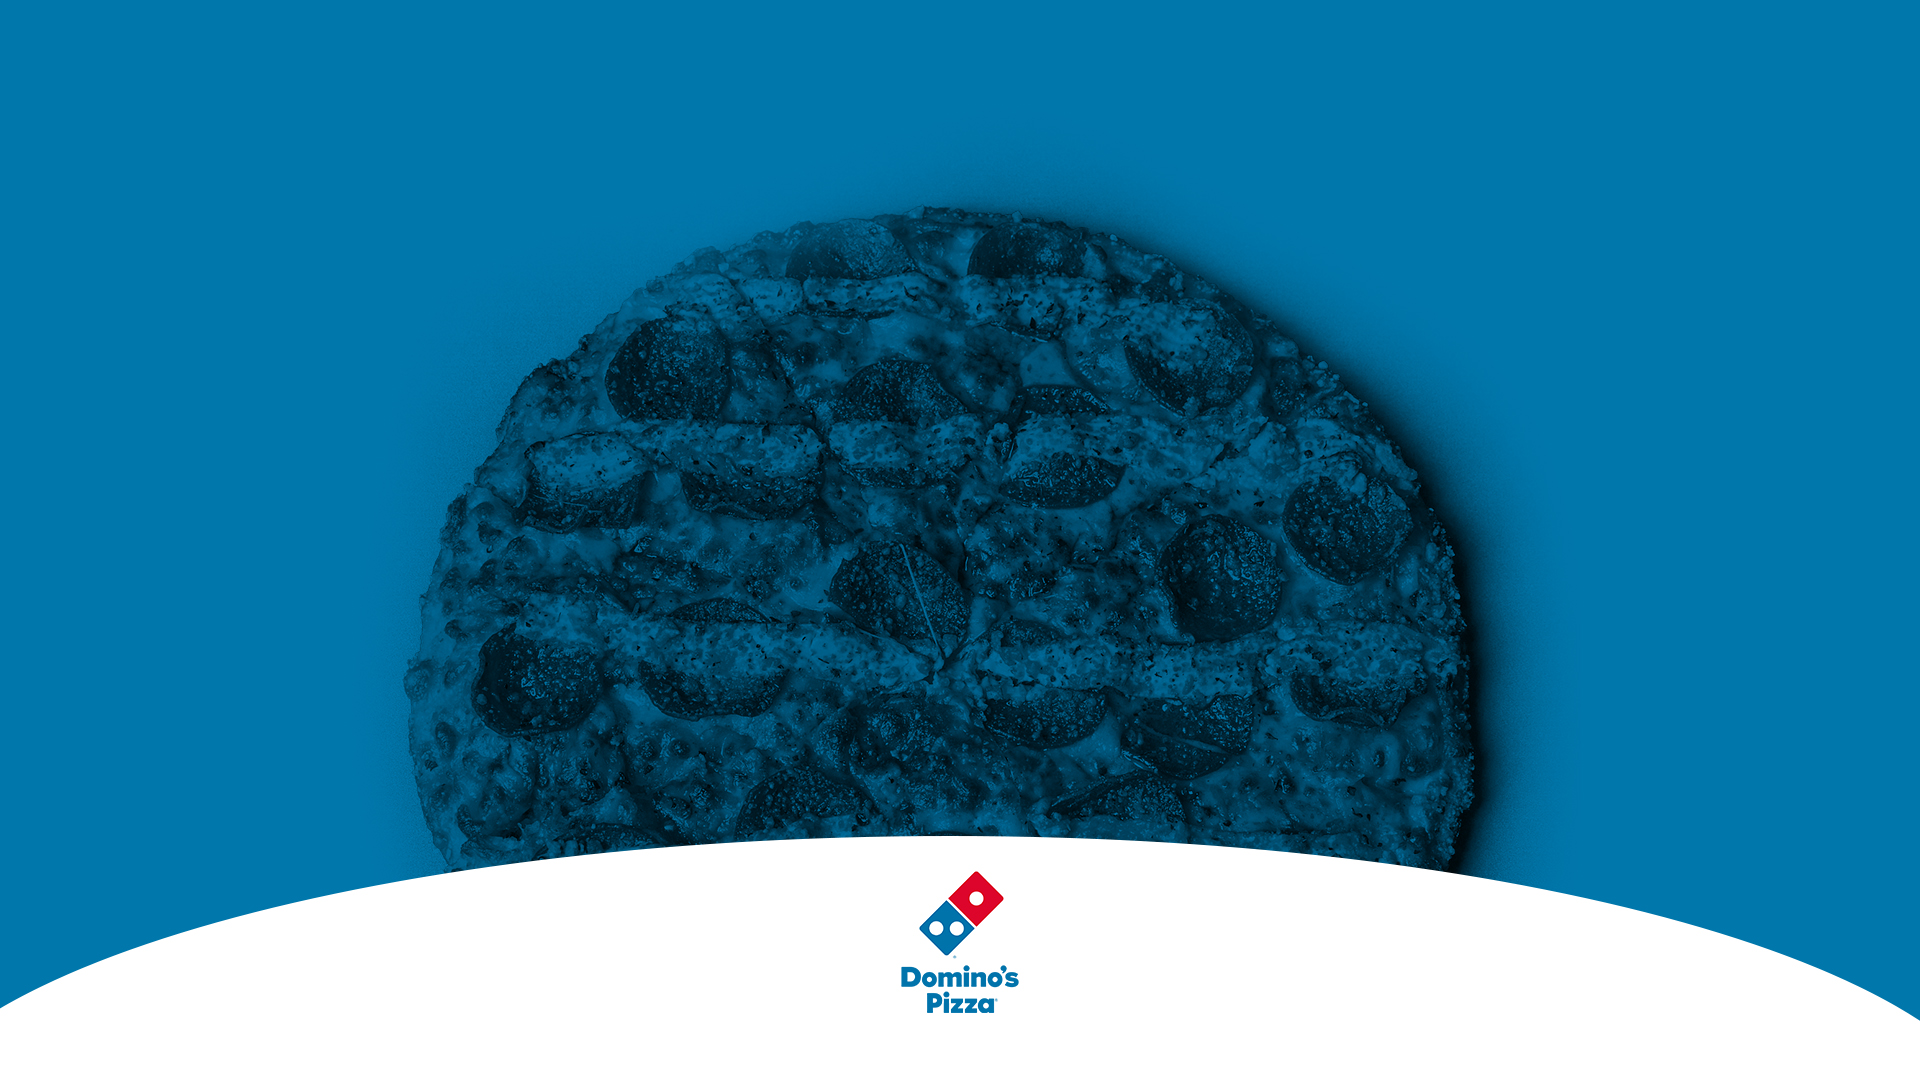
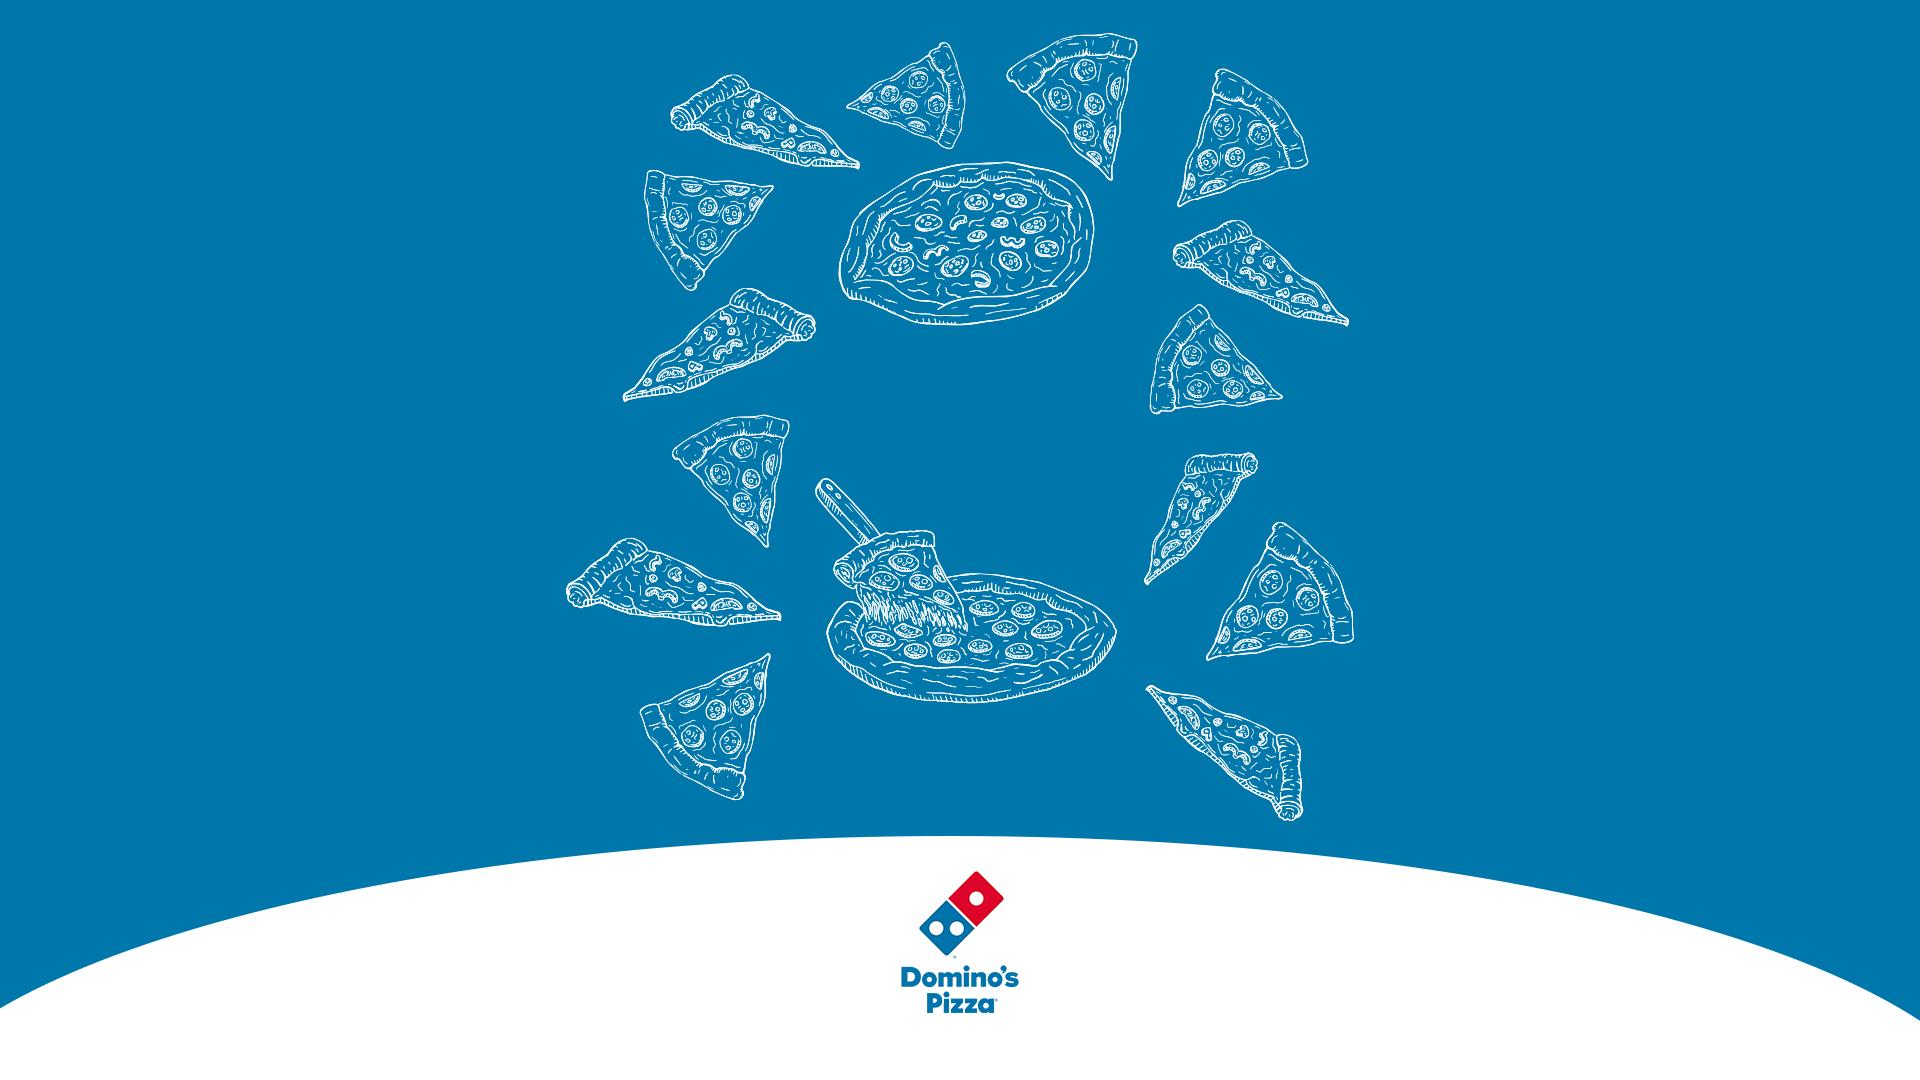
bg-image changed. menu link removed

diff --git a/data.js b/data.js
@@ -3,10 +3,10 @@ const links = [
        name:"ligue e peça agora!",
        link:'tel:+557135992000',
      },
-     {
-       name:"cardápio aqui",
-       link:"https://drive.google.com/drive/folders/1UCyd9O0P6C_yobzsWz-e2D40xx-rcl8Y"
-     }, 
+    //  {
+    //    name:"cardápio aqui",
+    //    link:"https://drive.google.com/drive/folders/1UCyd9O0P6C_yobzsWz-e2D40xx-rcl8Y"
+    //  }, 
      {
        name:"pedidos ifood",
        link:"https://www.ifood.com.br/delivery/salvador-ba/dominos-pizza---brotas-brotas/"

diff --git a/index.html b/index.html
@@ -20,7 +20,6 @@
                 <div class="presentation">
                     <h1>Bem vindo(a) à 
                         </br>
-                        
                     <span>@dominosbrotas</span>
                     </h1>
                 </div>
@@ -41,7 +40,7 @@ const mappedUsers = links.map((link, index) => {
             <span class="text" >${link.name}</span>
             </div>
           </a>`
-        });
+        }).join('');
 
 usersContainer.innerHTML = mappedUsers
 

diff --git a/styles.css b/styles.css
@@ -44,6 +44,7 @@ body,h1{
     padding: 0 .5em;
 }
 
+.data-container{display: flex; flex-direction: column; gap: 1.5em;}
 .data-container .button{
     background-color: white;
     display: block;
